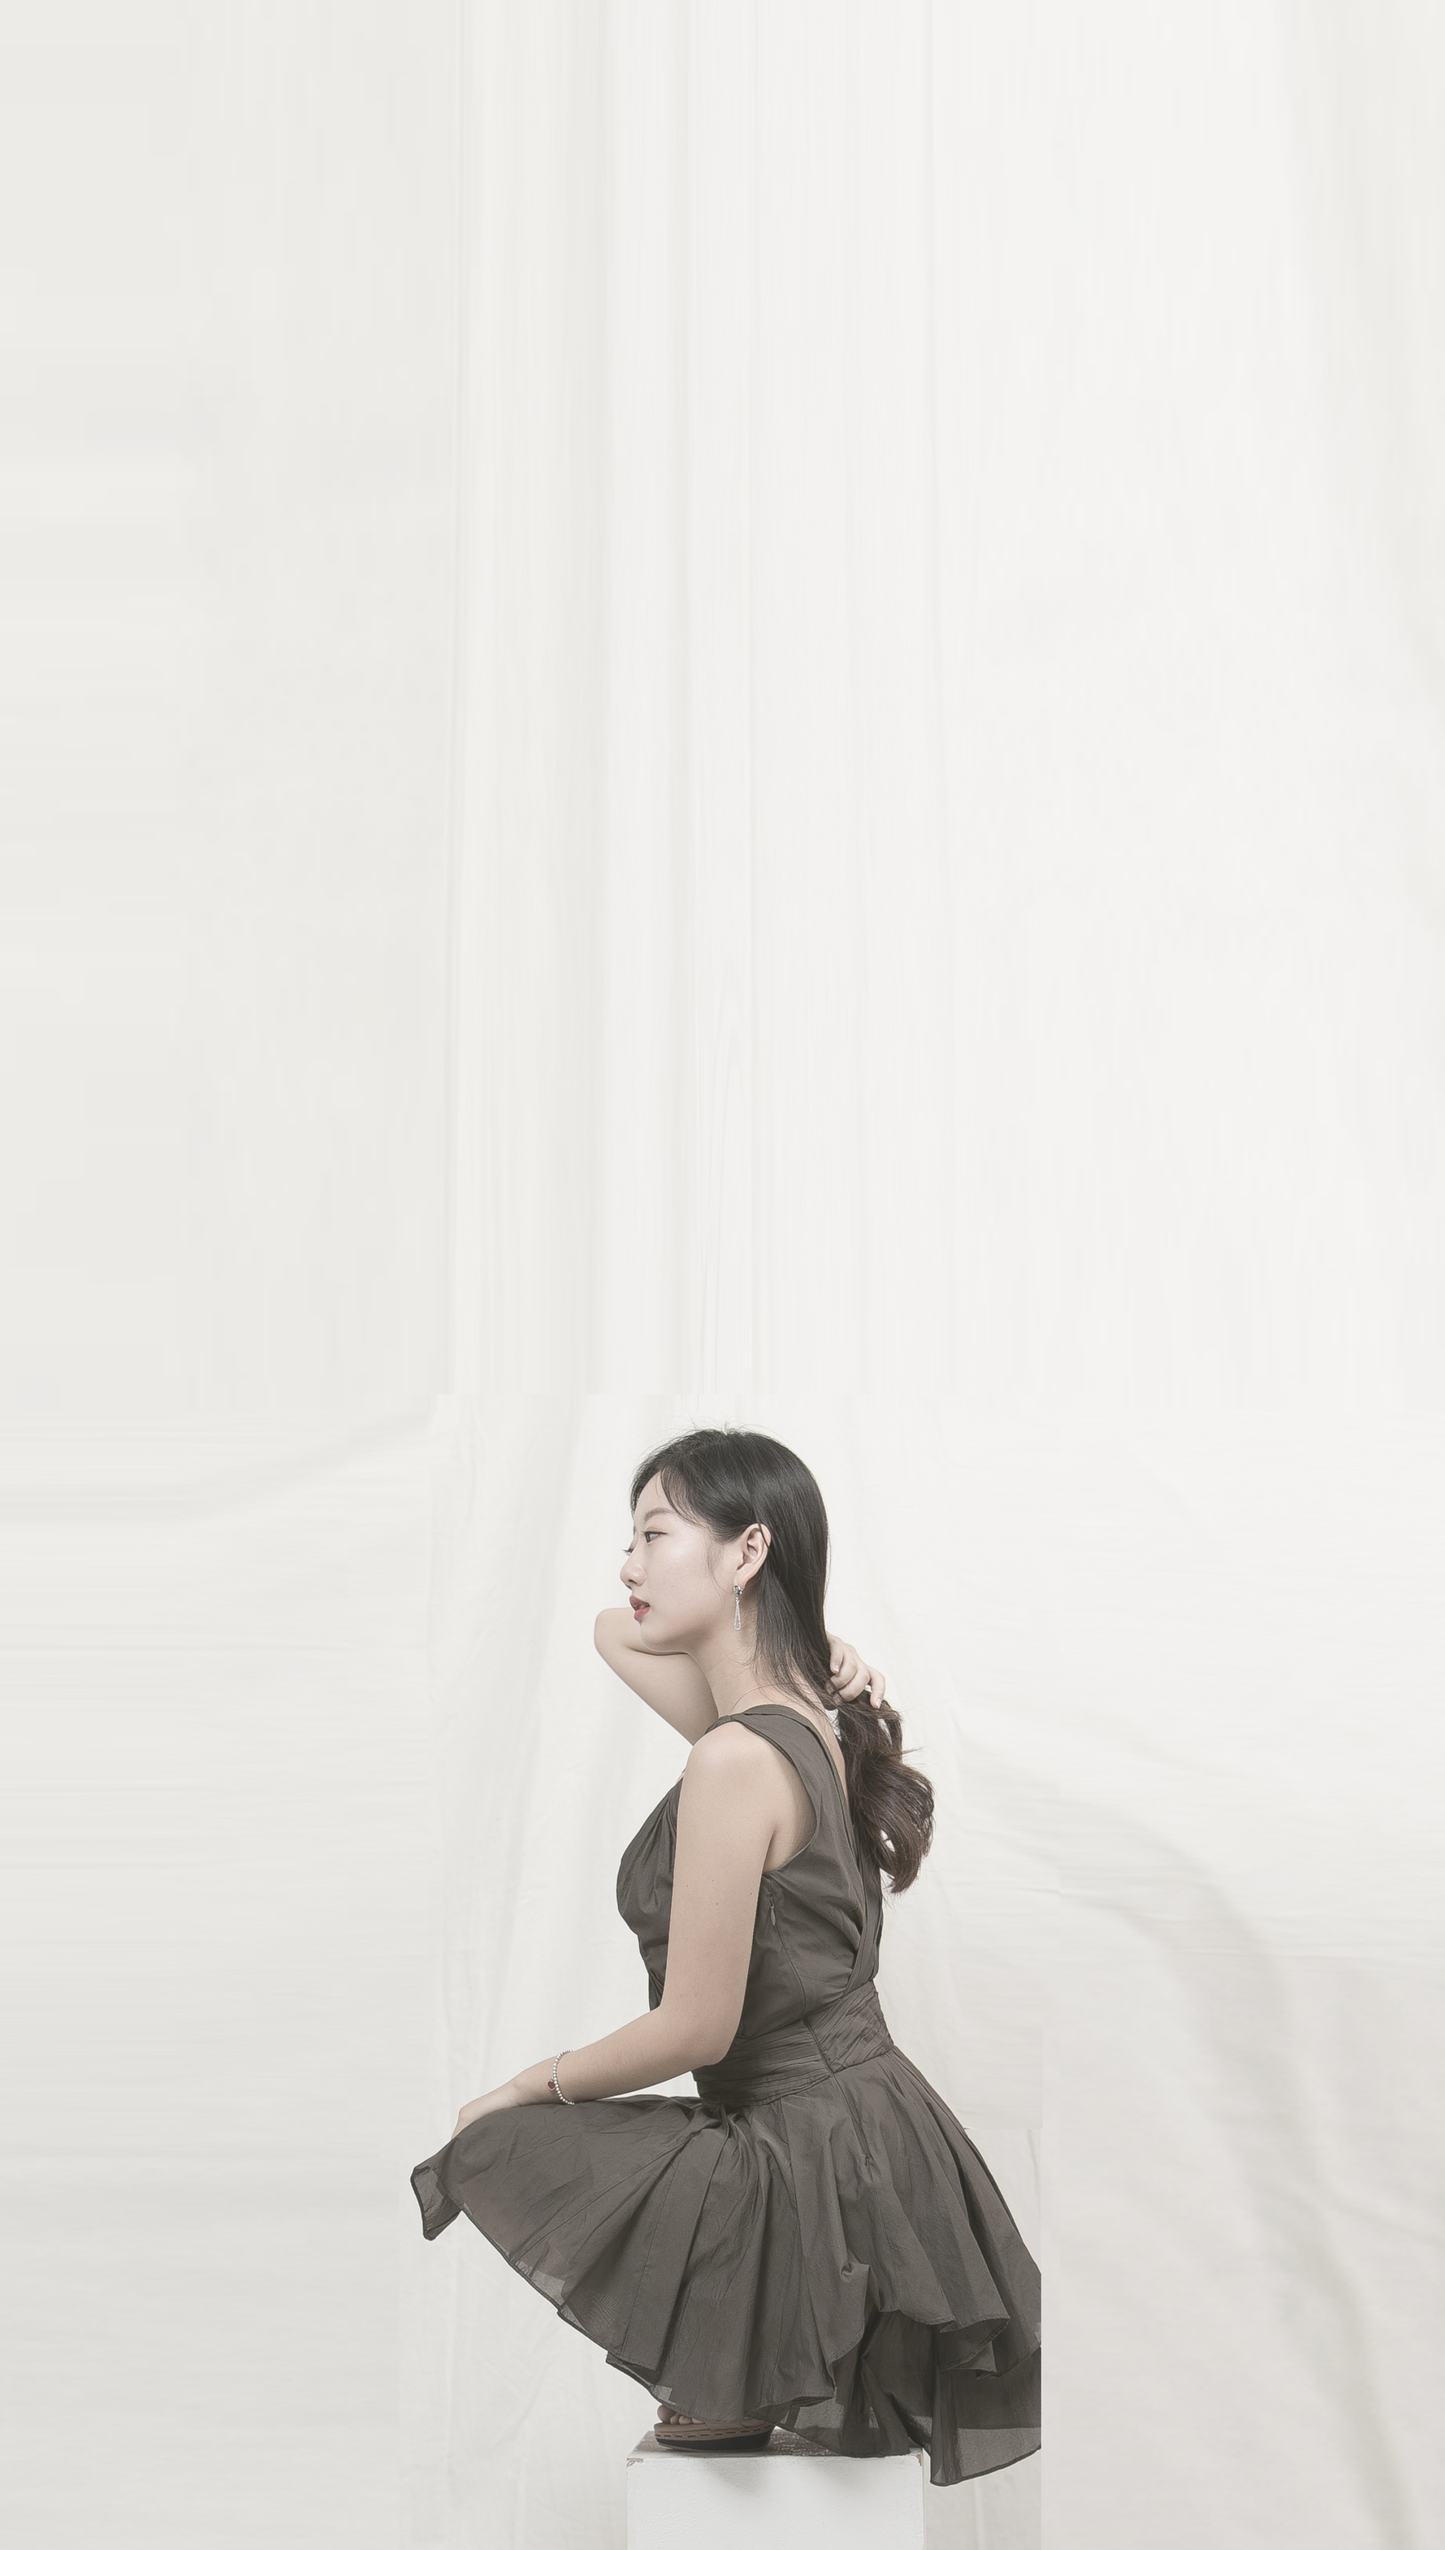
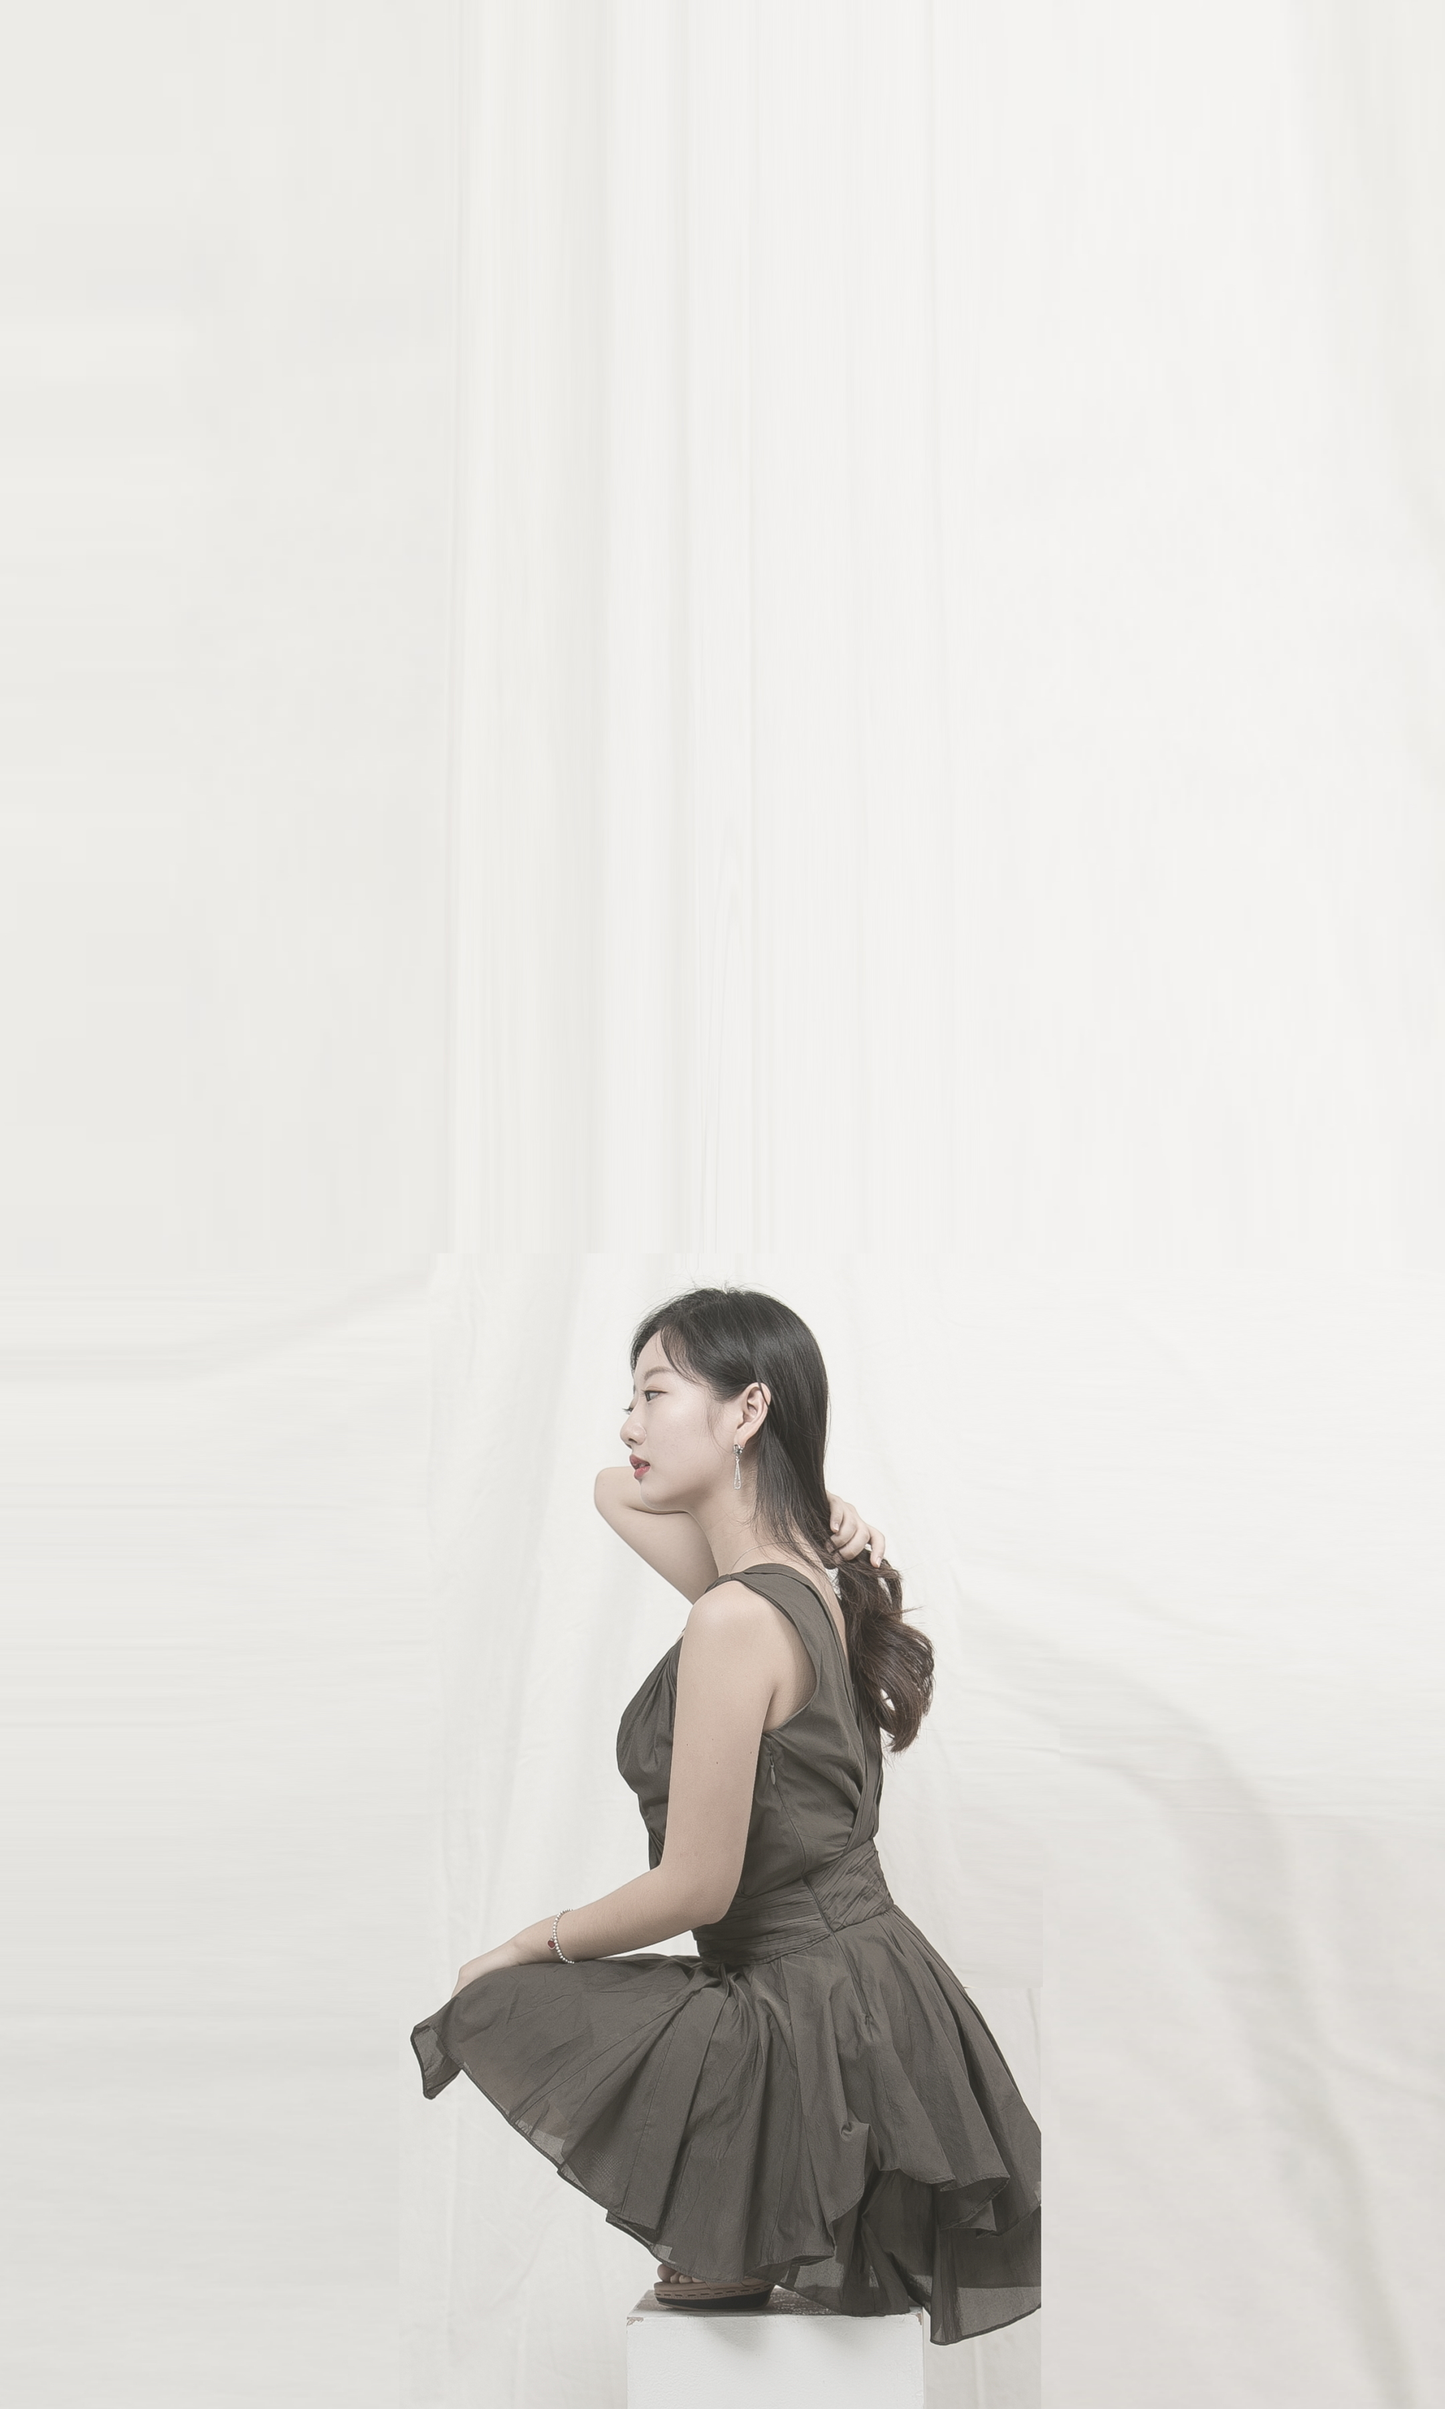
fix: adjust mobile main slider height

Changed region(s): [[0.2792, 0.5289, 0.7134, 0.9644]]

diff --git a/src/assets/css/style.css b/src/assets/css/style.css
@@ -906,7 +906,7 @@ font header .navbar-default .navbar-nav li a:hover {
   }
 
   .slider .block {
-    margin-top: -45px;
+    margin-top: -35px;
     margin-bottom: 80px;
   }
 
